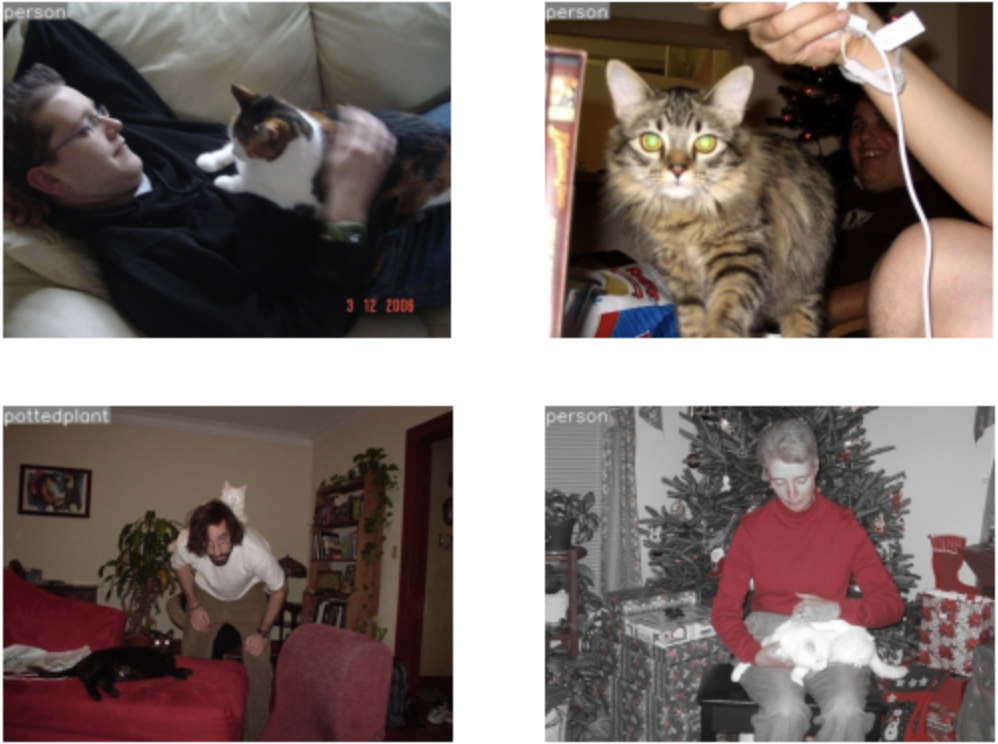
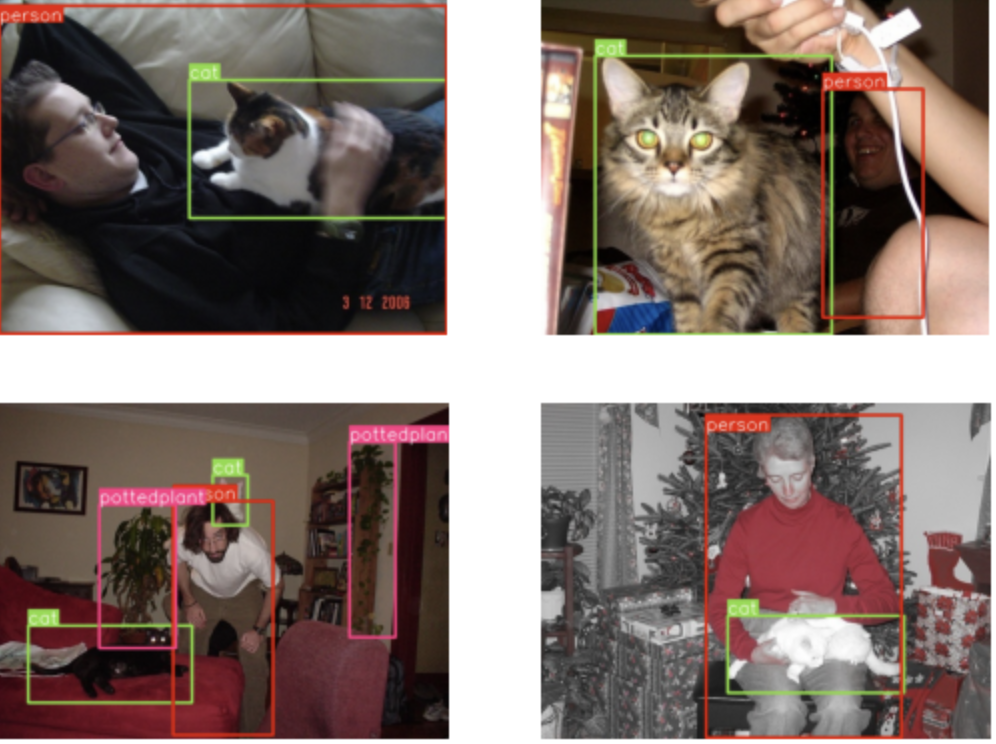
update

diff --git a/yoloexplorer/explorer.py b/yoloexplorer/explorer.py
@@ -10,8 +10,8 @@ import yaml
 from tqdm import tqdm
 
 from ultralytics import YOLO
-from ultralytics.yolo.utils import LOGGER, colorstr
-from ultralytics.yolo.utils.plotting import Annotator
+from ultralytics.yolo.utils import LOGGER, colorstr          
+from ultralytics.yolo.utils.plotting import Annotator, colors
 from torch import Tensor
 import lancedb
 import pyarrow as pa
@@ -227,7 +227,7 @@ class Explorer:
         df = (
             self.sql(query)
             if query
-            else self.table.to_pandas().set_index("id").loc[ids]
+            else self.table.to_pandas().iloc[ids]
         )
         if n < len(df):
             df = df[0:n]
@@ -236,11 +236,10 @@ class Explorer:
             img = cv2.cvtColor(img, cv2.COLOR_BGR2RGB)
             if labels:
                 ann = Annotator(img)
-                for box, label in zip(row["bboxes"], row["labels"]):
-                    # import pdb; pdb.set_trace()
-                    ann.box_label(box.tolist(), label)
+                for box, label, cls in zip(row["bboxes"], row["labels"], row["cls"]):
+                    ann.box_label(box, label, color=colors(cls, True))
 
-                img = ann.im
+                img = ann.result()
             resized_images.append(img)
 
         # Create a grid of the images
@@ -357,9 +356,8 @@ class Explorer:
         self.removed_img_count += len(idxs)
 
         table = pa_table.filter(mask)
-        # ids = [i for i in range(len(table))]
-        # table = table.set_column(1, 'id', [ids])
-        # TODO: handle throws error if table is empty
+        ids = [i for i in range(len(table))]
+        table = table.set_column(0, 'id', [ids])  # TODO: Revisit this. This is a hack to fix the ids==dix
         self.table = self._create_table(
             self.temp_table_name, data=table, mode="overwrite"
         )  # work on a temporary table
@@ -379,6 +377,8 @@ class Explorer:
             data["vector"].iloc[0]
         ), "Vector dimension mismatch"
         table_df = pd.concat([table_df, data], ignore_index=True)
+        ids = [i for i in range(len(table_df))]
+        table_df["id"] = ids
         self.table = self._create_table(
             self.temp_table_name, data=table_df, mode="overwrite"
         )  # work on a temporary table
@@ -454,7 +454,7 @@ class Explorer:
         db.drop_table(self.temp_table_name)
 
         LOGGER.info("Changes persisted to the dataset.")
-        self._log_training_cmd((path / datafile_name).as_posix())
+        self._log_training_cmd(Path(path / datafile_name).relative_to(Path.cwd()).as_posix())
 
     def log_status(self):
         # TODO: Pretty print log status
@@ -545,22 +545,7 @@ class Explorer:
 
 
 if __name__ == "__main__":
-    voc_table = Explorer("coco8.yaml")
-    voc_table.build_embeddings()
-    img = voc_table.table.to_pandas()["img"][0]
-
-    coco_table = Explorer("coco128.yaml")
-    coco_table.build_embeddings()
-    _, idx = voc_table.get_similar_imgs(img)
-
-    coco_table.add_imgs(voc_table, idx)
-    coco_table.remove_imgs([1, 2, 3, 4, 5, 6, 7, 8, 9, 10])
-    coco_table.persist()
-    # exp.plot_similar_imgs(1)
-    # sim = exp.get_similarity_index()
-    # exp.plot_similirity_index()
-    # exp.remove_imgs(1)
-    # exp.persist()
-    import pdb
-
-    pdb.set_trace()
+    voc_table = Explorer("coco128.yaml")
+    voc_table.build_embeddings(force=True)
+    voc_table.remove_imgs([7,10,11,12,13,14,15,16,17,18,19,20,21,22,23])
+    import pdb;pdb.set_trace()

diff --git a/tests/test_explorer.py b/tests/test_explorer.py
@@ -61,6 +61,28 @@ class TestExplorer:
             1,
         ], f'the result of the sql query should be [0,1] found {result["id"].to_list}'
 
+    def test_id_reassignment(self):
+        coco_exp = Explorer("coco128.yaml")
+        coco_exp.build_embeddings(force=True)
+
+        coco8_exp = Explorer("coco8.yaml")
+        coco8_exp.build_embeddings(force=True)
+        # test removal
+        for i in range(4):
+            coco_exp.remove_imgs([i])
+            df = coco_exp.table.to_pandas()
+            assert df["id"].to_list() == [idx for idx in range(len(df))], "the ids should be reassigned"
+
+        # test addition
+        coco_exp.add_imgs(coco8_exp, [i for i in range(4)])
+        df = coco_exp.table.to_pandas()
+        assert df["id"].to_list() == [idx for idx in range(len(df))], "the ids should be reassigned"
+
+        # test reset
+        coco_exp.reset()
+        df = coco_exp.table.to_pandas()
+        assert df["id"].to_list() == [idx for idx in range(128)], "the ids should be reassigned"
+
     """
     # Not supported yet
     def test_copy_embeddings_from_table(self):

diff --git a/yoloexplorer/dataset.py b/yoloexplorer/dataset.py
@@ -54,8 +54,8 @@ class Dataset(YOLODataset):
 
     def build_transforms(self, hyp=None):
         transforms = Format(
-            bbox_format="xywh",
-            normalize=True,
+            bbox_format="xyxy",
+            normalize=False,
             return_mask=self.use_segments,
             return_keypoint=self.use_keypoints,
             batch_idx=True,

diff --git a/README.md b/README.md
@@ -74,6 +74,7 @@ coco_exp.plot_similar_imgs(query="WHERE labels LIKE '%motorbike%'")
 
 <details>
 <summary> <b>Plotting</b></summary>
+
 | Visualization Method | Description | Arguments |
 |---|---|---|
 | `plot_imgs(ids, query, n=10)` | Plots the given `ids` or the result of the SQL query. One of the 2 must be provided. | `ids`: A list of image IDs or a SQL query. `n`: The number of images to plot. |
